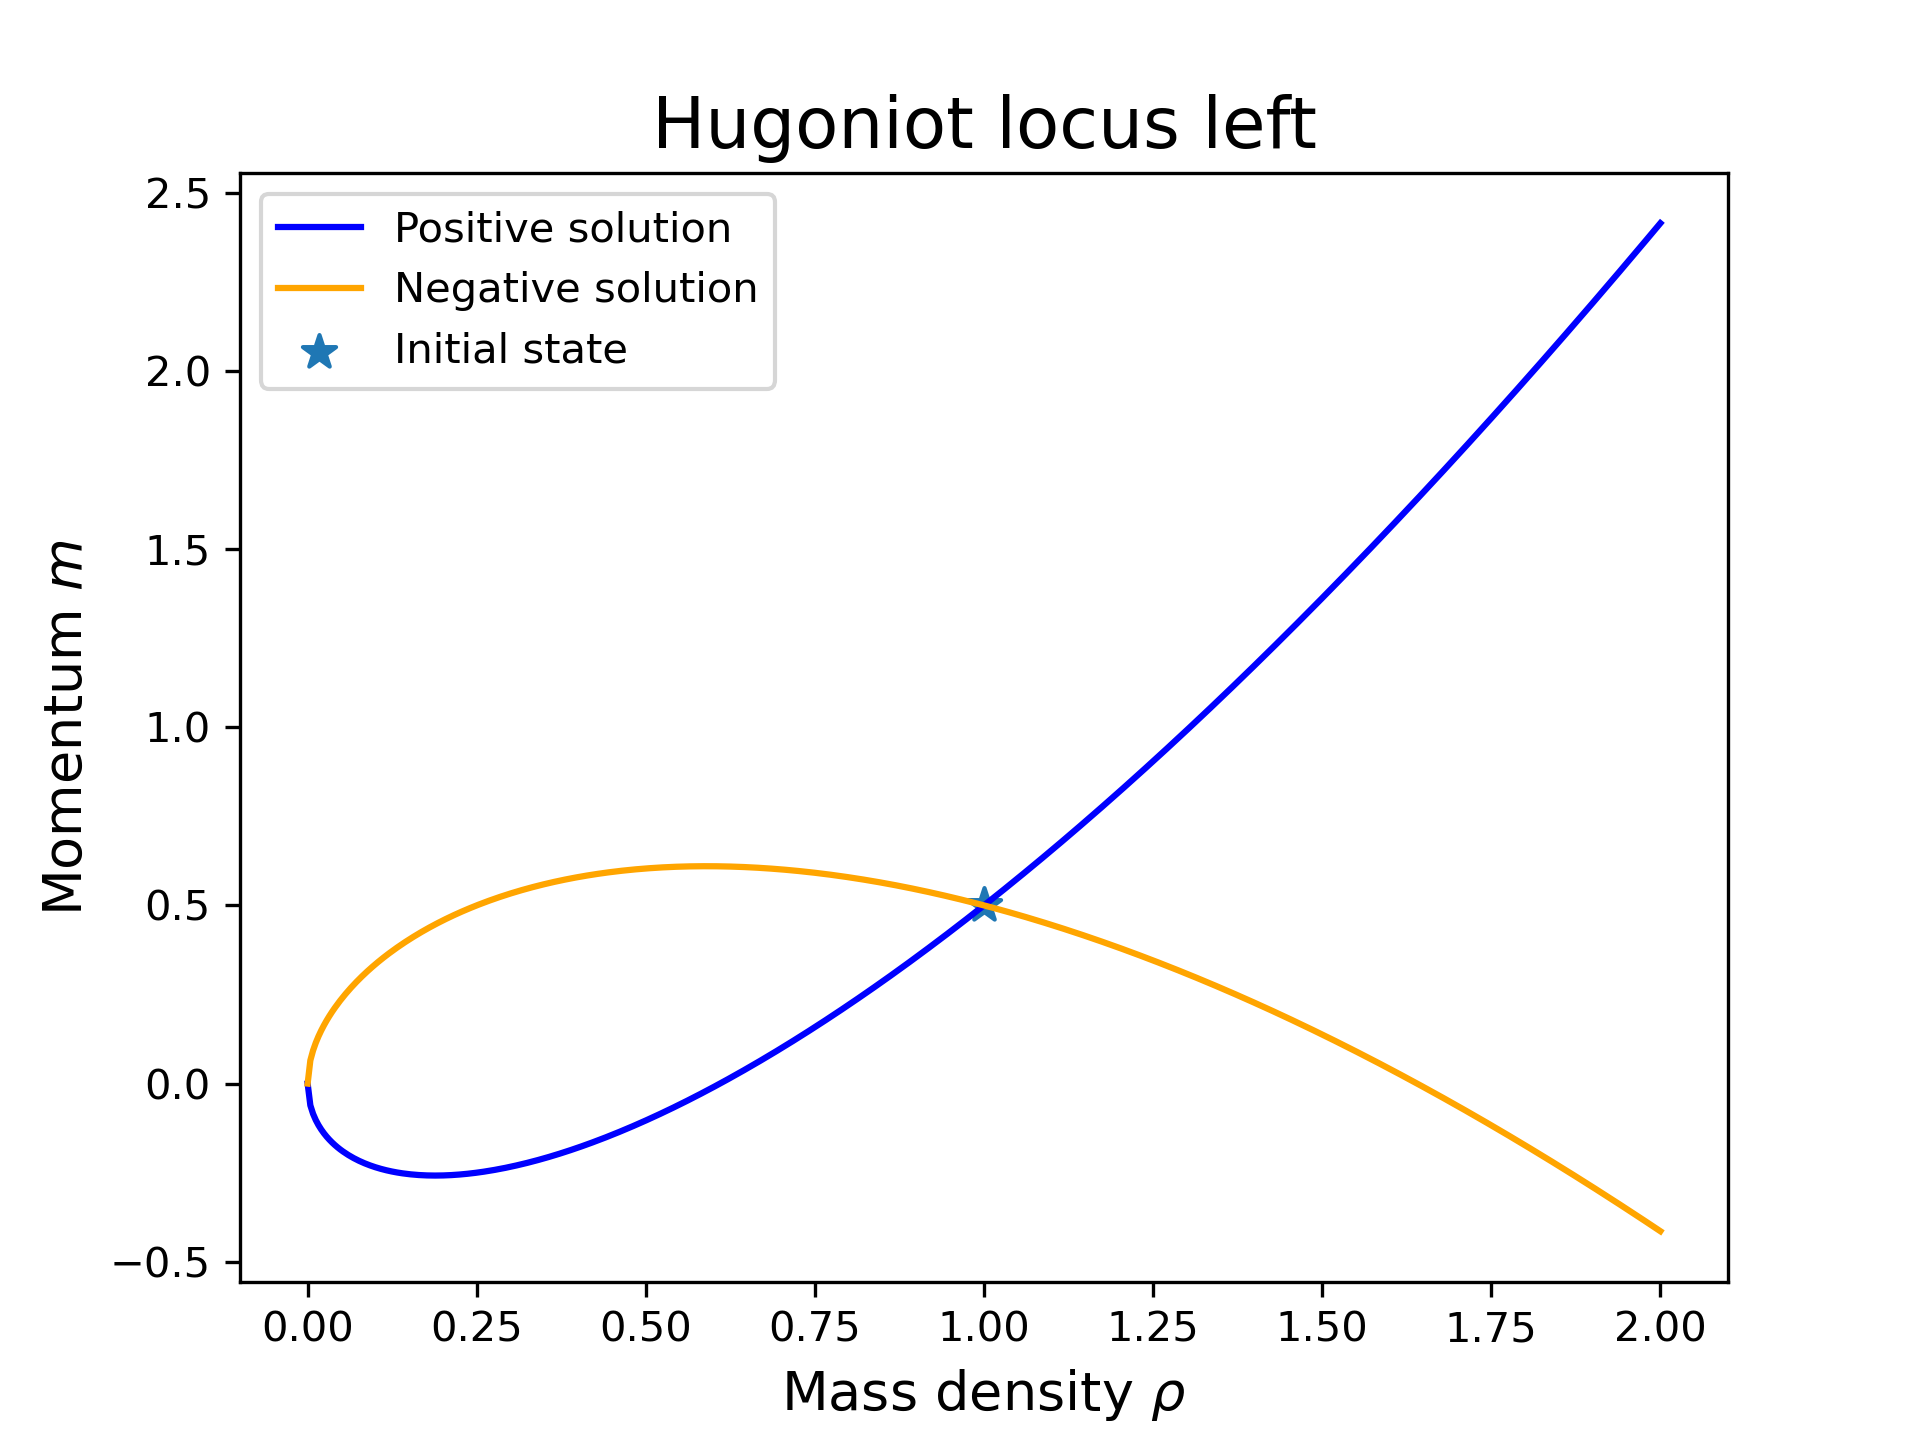
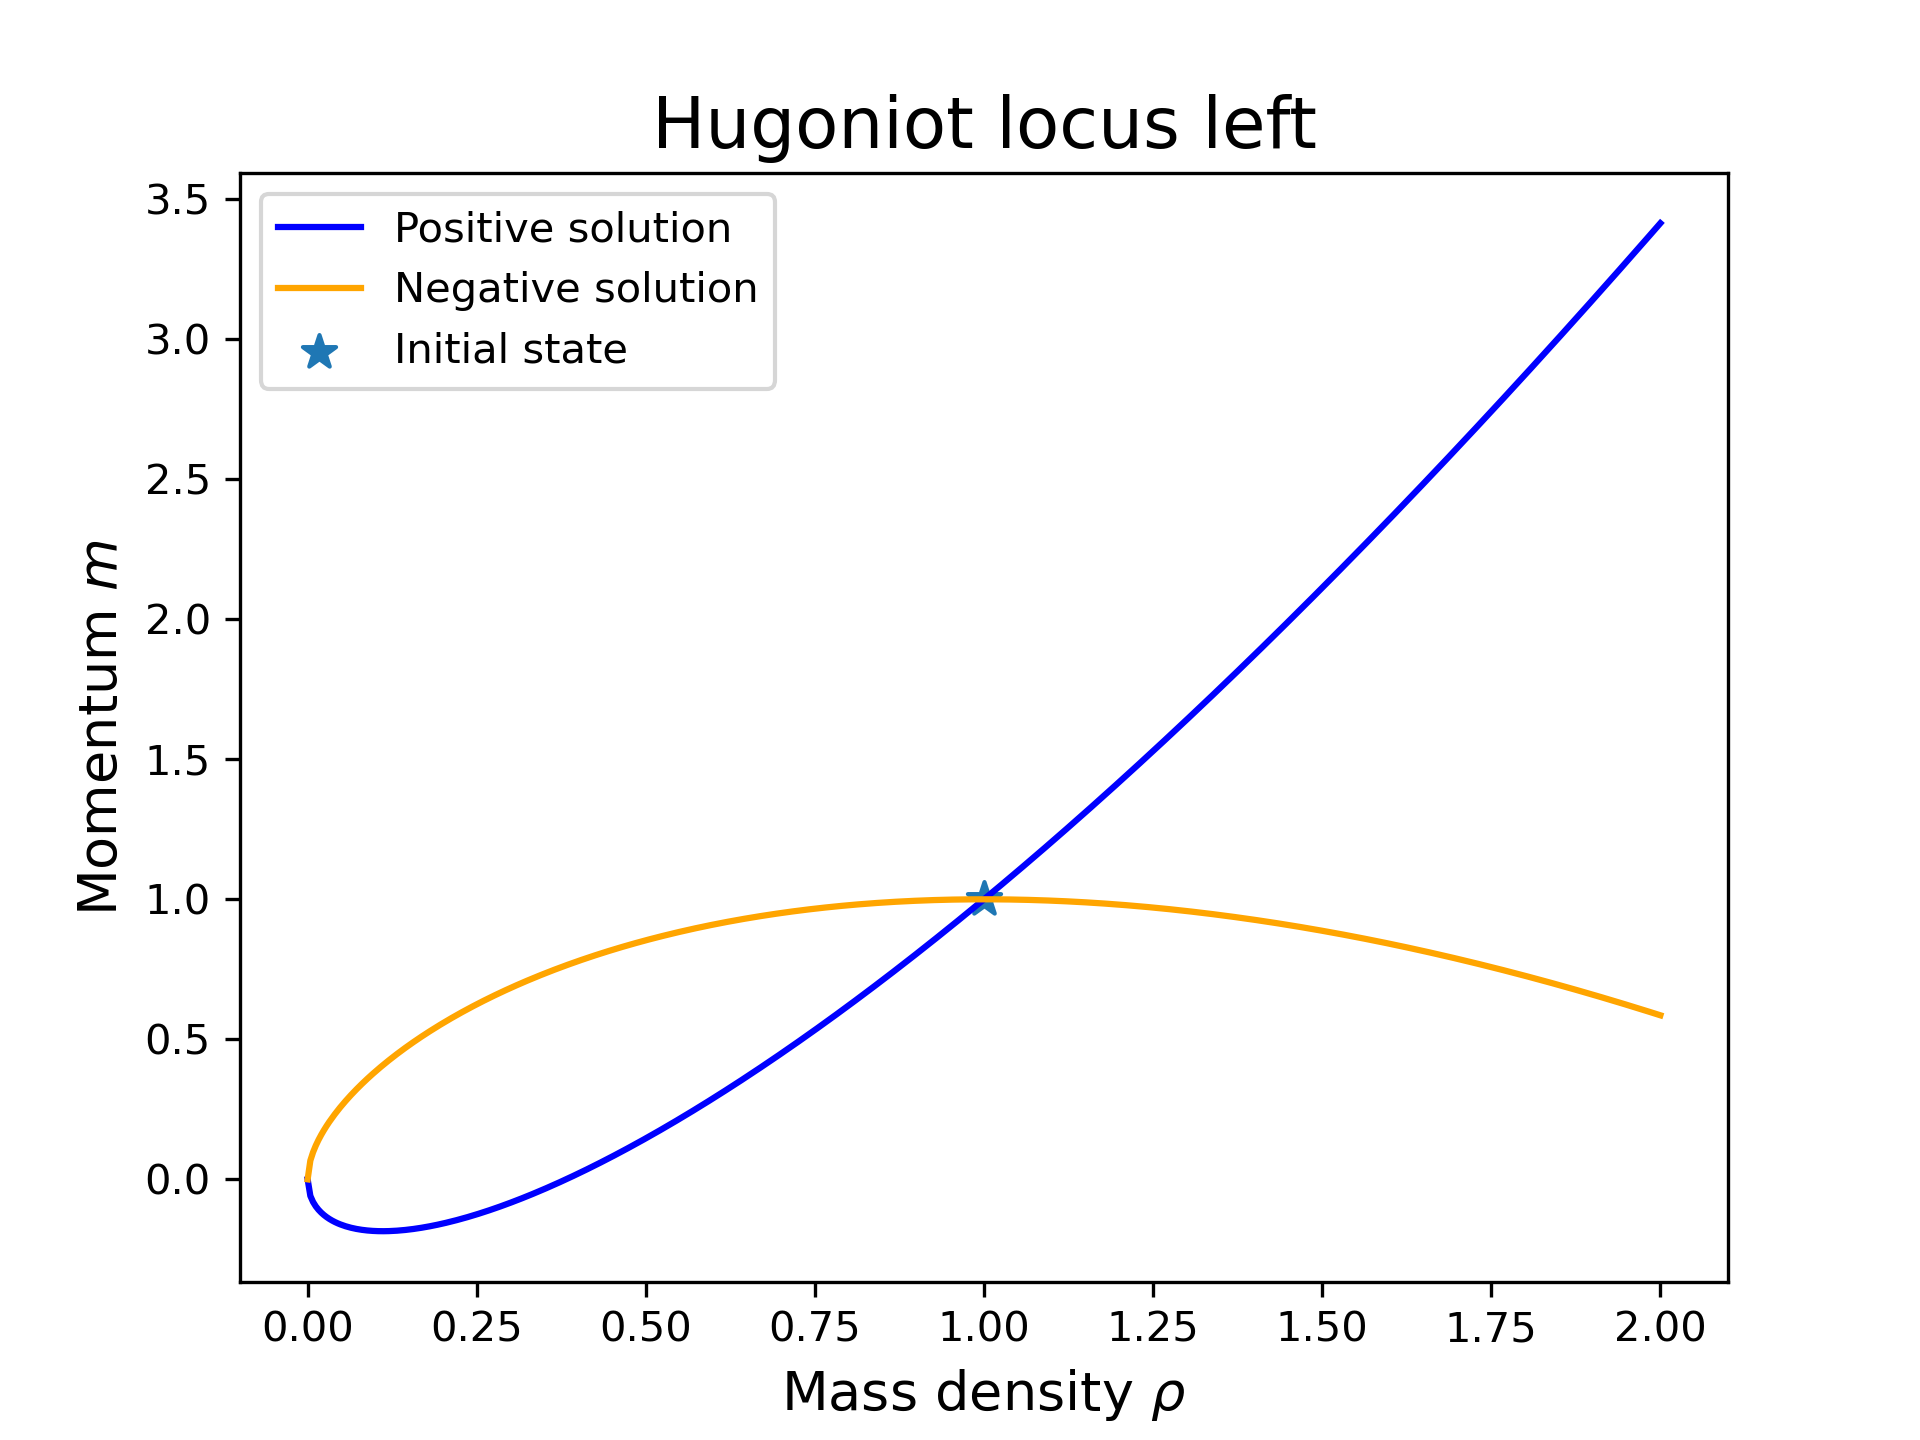
test full solution plot

diff --git a/riemann.py b/riemann.py
@@ -351,11 +351,9 @@ class riemann:
             wave_2 = 'absent'
 
         # check degenerate cases
-        cond1 = self.integral_curve(U_L, rho_R, '1-rarefaction')[0] 
-        cond2 = self.integral_curve(U_L, rho_R, '1-rarefaction')[1] 
-
-        cond3 = self.integral_curve(U_R, rho_L, '2-rarefaction')[0] 
-        cond4 = self.integral_curve(U_R, rho_L, '2-rarefaction')[1] 
+        cond1 = self.integral_curve(U_L, rho_R, '1-rarefaction')
+        cond3 = self.integral_curve(U_R, rho_L, '2-rarefaction')
+  
         # R on Hugoniot locus of L
         if (self.hugoniot_locus(U_L, rho_R)[0] == rho_R*v_R) or (self.hugoniot_locus(U_L, rho_R)[0] == rho_R*v_R):
             wave_1 = 'shock'
@@ -363,7 +361,7 @@ class riemann:
 
         # R on integral curve of L
         
-        elif (cond1 == rho_R*v_R) or (cond2 == rho_R*v_R):
+        elif (cond1 == rho_R*v_R):
             wave_1 = 'rarefaction'
             wave_2 = 'absent'
 
@@ -373,7 +371,7 @@ class riemann:
             wave_2 = 'shock'
 
         # L on integral curve of R
-        elif (cond3 == rho_L*v_L) or (cond4 == rho_L*v_L):
+        elif (cond3 == rho_L*v_L):
             wave_1 = 'absent'
             wave_2 = 'rarefaction'
 
@@ -384,7 +382,7 @@ class riemann:
             if rho_R > rho_L:
                 if self.hugoniot_locus(U_L, rho_R)[1] < v_R*rho_R:
                     # get value of R2(U_R, rho_L)
-                    val = self.integral_curve(U_R, rho_L, '2-rarefaction')[0]
+                    val = self.integral_curve(U_R, rho_L, '2-rarefaction')
                     if rho_L*v_L > val:
                         # intersects R1
                         wave_1 = 'rarefaction'
@@ -396,7 +394,7 @@ class riemann:
                     wave_1 = 'shock'
                     wave_2 = 'shock'
             else: 
-                if self.integral_curve(U_L, rho_R)[1] > v_R*rho_R:
+                if self.integral_curve(U_L, rho_R, '1-rarefaction') > v_R*rho_R:
                     # get value of R2(U_R, rho_L)
                     val = self.hugoniot_locus(U_R, rho_L)[0]
                     if rho_L*v_L > val:

diff --git a/plotting.py b/plotting.py
@@ -553,18 +553,30 @@ class plotting:
         # Create Plot
         fig, ax = plt.subplots(1,1, figsize=(8,6))
                                
-                               # Plot the initial states
-        ax.scatter(U_L[0], U_R[1], label='Left initial state', marker='*', s=70)
+        # Plot the initial states
+        ax.scatter(U_L[0], U_L[1], label='Left initial state', marker='*', s=70)
         ax.scatter(U_R[0], U_R[1], label='Right initial state', s=70, marker='*')
 
         # create rho arrays (lower and higher density for both states)
+        L_lower = np.linspace(0, rho_L, 500)
+        L_higher = np.linspace(rho_L, 2, 500)
 
-        # get Hugoniot loci (lower and higher density separately)
+        R_lower = np.linspace(0, rho_L, 500)
+        R_higher = np.linspace(rho_L, 2, 500)
 
-        # get integral curves (lower and higher density separately)
+        # print decision tree solution
+        sol = self.riemann.solve_riemann()
+        print(sol)
 
-        # get intermediate state if appropriate
+        R1 = self.riemann.integral_curve(U_L, L_lower, '1-rarefaction')
+        R2 = self.riemann.integral_curve(U_R, R_lower, '2-rarefaction')
+        S1 = self.riemann.hugoniot_locus(U_L, L_higher)[1]
+        S2 = self.riemann.hugoniot_locus(U_R, R_higher)[0]
 
+        ax.plot(L_lower, R1, label='R1', linestyle='dashed')
+        ax.plot(L_higher, S1, label='S1')
+        ax.plot(R_lower, R2, label='R2', linestyle='dashed')
+        ax.plot(R_higher, S2, label='S2')
 
         ax.set_xlabel(r'Mass density $\rho$', fontsize=13)
         ax.set_ylabel(r'Momentum $m$', fontsize=13)
@@ -579,5 +591,5 @@ class plotting:
                          name='Full_solution_state_space',
                          title='Riemann Problem Solution in State Space'):
         '''
-        Plot the '''
+        Plot the solution in state space, as one of the 9 possibvi'''
         pass
